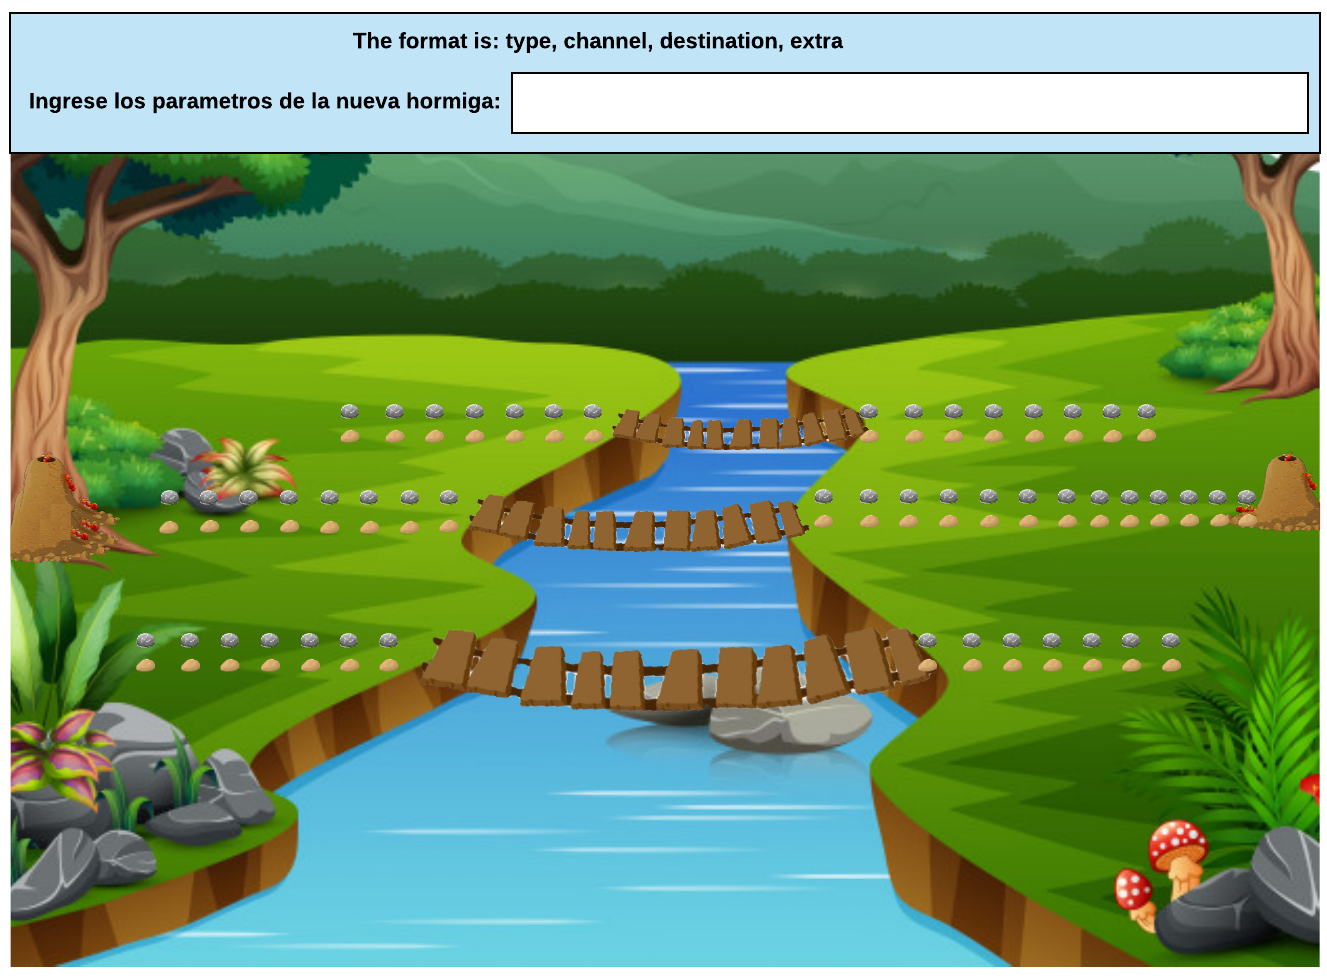
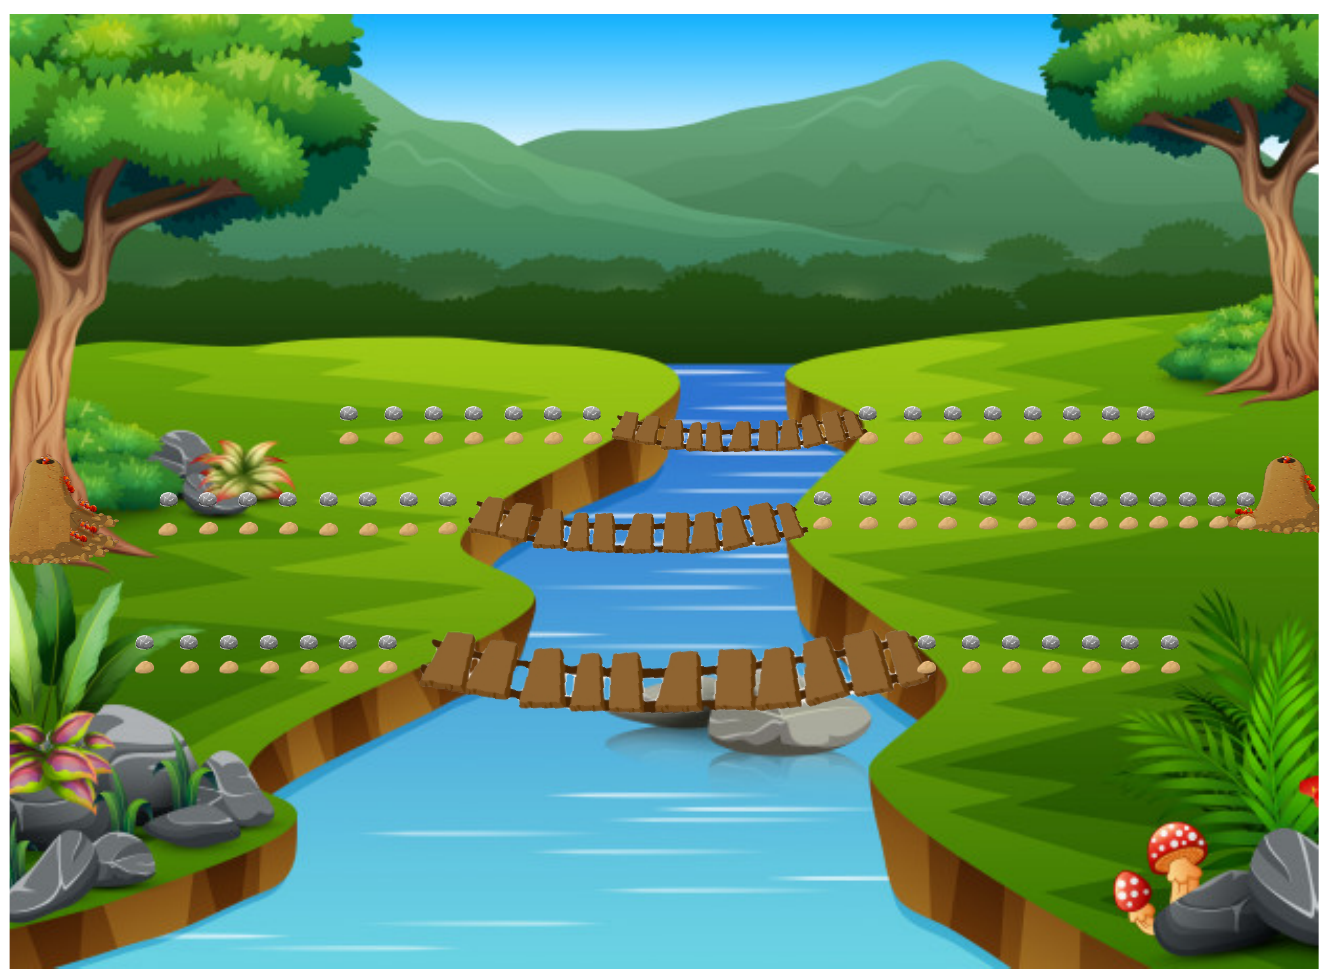
[ADD] Keyboard input

diff --git a/src/gui/gui.c b/src/gui/gui.c
@@ -83,6 +83,8 @@ int main(int argc, char **argv)
 
     CEthread_init();
 
+    int inicio = 0;
+
     while(running) {
         // Process events
          SDL_StartTextInput(); 
@@ -102,20 +104,58 @@ int main(int argc, char **argv)
                         running = false;
                         break;
 
-                    case SDLK_q:
+                    case SDLK_j:
+                        channel = 1;
+                        printf("Se selecciono el canal 1\n");
+                        break;
+
+                    case SDLK_k:
+                        channel = 2;
+                        printf("Se selecciono el canal 2\n");
+                        break;
+
+                    case SDLK_l:
+                        channel = 3;
+                        printf("Se selecciono el canal 3\n");
+                        break;
+
+                    case SDLK_z:
+                        type = 0;
+                        printf("Se selecciono una hormiga normal\n");
+                        break;
+                    
+                    case SDLK_x:
+                        type = 1;
+                        printf("Se selecciono una hormiga zompopa\n");
+                        break;
+
+                    case SDLK_c:
+                        type = 2;
+                        printf("Se selecciono una hormiga reina\n");
+                        break;
+
+                    case SDLK_n:
+                        dest = 0;
+                        printf("Se selecciono como destino el hormiguero izquierdo\n");
+                        break;
+
+                    case SDLK_m:
+                        dest = 1;
+                        printf("Se selecciono como destino el hormiguero derecho\n");
+                        break;
+
+                    case SDLK_e:
+                        extra = atoi(input);
+                        printf("Se ingreso el parámetro extra\n");
+                        printf("%s\n",input);
                         break;
 
                     case SDLK_BACKSPACE:
                         input[strlen(input)-1] = '\0';
                         break;
                         
-                    case SDLK_c:
+                    case SDLK_r:
                         SDL_StopTextInput();
-
-                        type = atoi(strtok(input,",")); // 0 1 1 -1
-                        channel = atoi(strtok(NULL,","));
-                        dest = atoi(strtok(NULL,","));   
-                        extra = atoi(strtok(NULL,","));  
 
                         if(dest == 1){
                             posX = 80;
@@ -187,6 +227,7 @@ int main(int argc, char **argv)
         SDL_RenderCopy(renderer, backgroundTxt, NULL, &backgroundRect); // BG
 
         //Label
+        /*
         TTF_Init();
         TTF_Font *verdanaFont = TTF_OpenFont("src/gui/lazy.ttf", 50);
         SDL_Color textColor = { 0, 0, 0, 255 };
@@ -195,8 +236,11 @@ int main(int argc, char **argv)
         int w, h;
         SDL_QueryTexture(textTexture,NULL,NULL,&w,&h);
         SDL_Rect textRect = {470,60,w,h};
-        SDL_RenderCopy(renderer, textTexture, NULL, &textRect); // Label*/
- 
+        SDL_RenderCopy(renderer, textTexture, NULL, &textRect); // Label
+        TTF_Quit();
+        TTF_CloseFont(verdanaFont);
+        */
+
         //SPRITES
         if(allAnts.count > 0){
             queueNode *temp = (queueNode*) allAnts.head;
@@ -253,6 +297,14 @@ int main(int argc, char **argv)
 
         // Show what was drawn
         SDL_RenderPresent(renderer);
+
+        if(inicio == 0){
+            SDL_ShowSimpleMessageBox(SDL_MESSAGEBOX_ERROR,
+            "Missing file",
+            "File is missing. Please reinstall the program.",
+            NULL);
+            inicio = 1;
+        }
 
         // Frametime configuration
         frametime ++;
